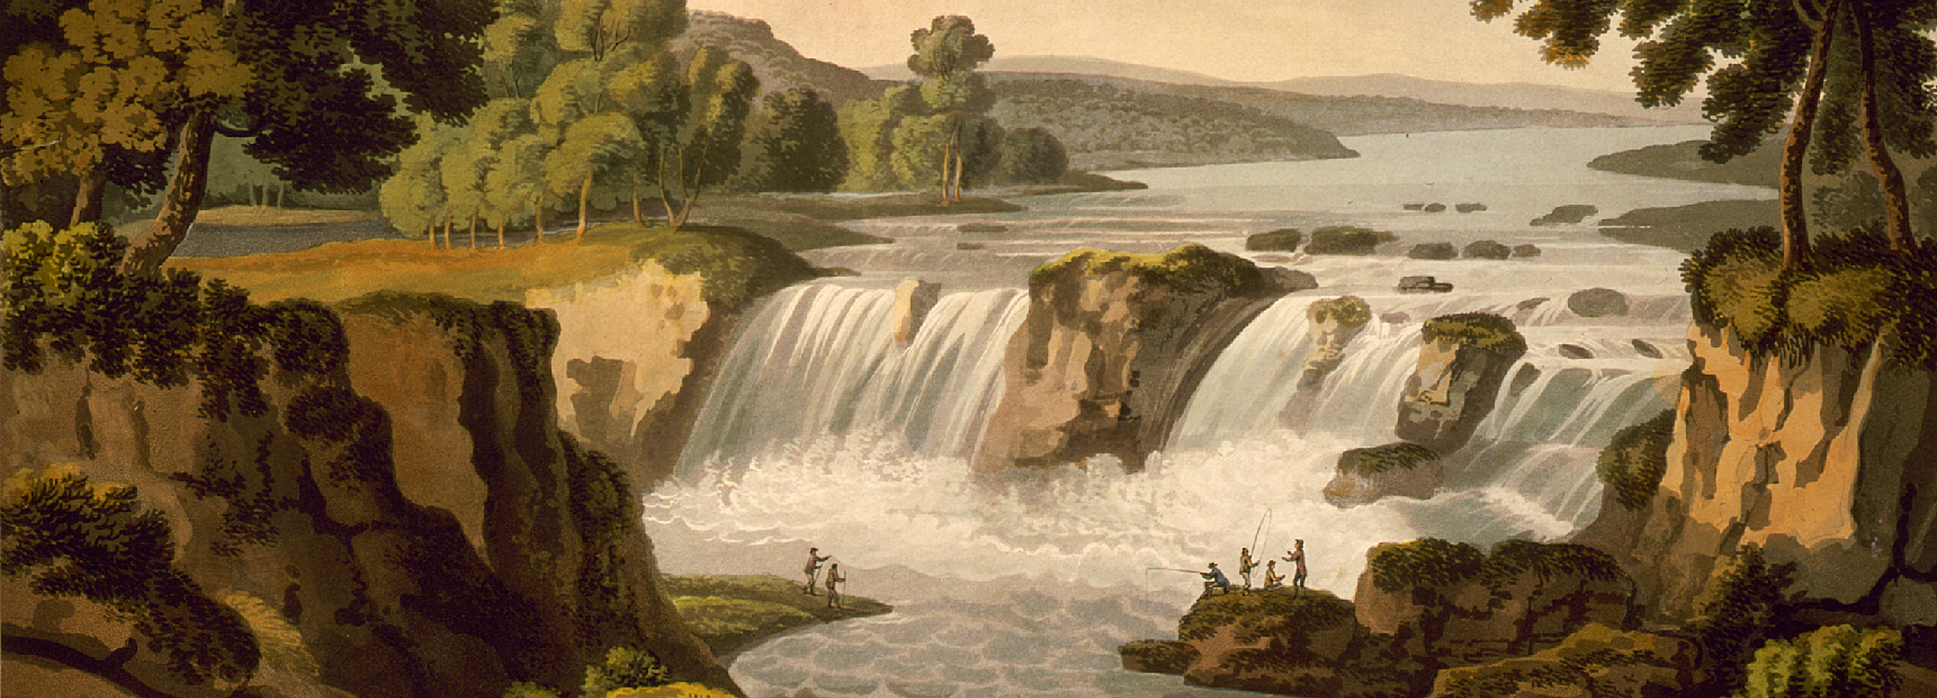
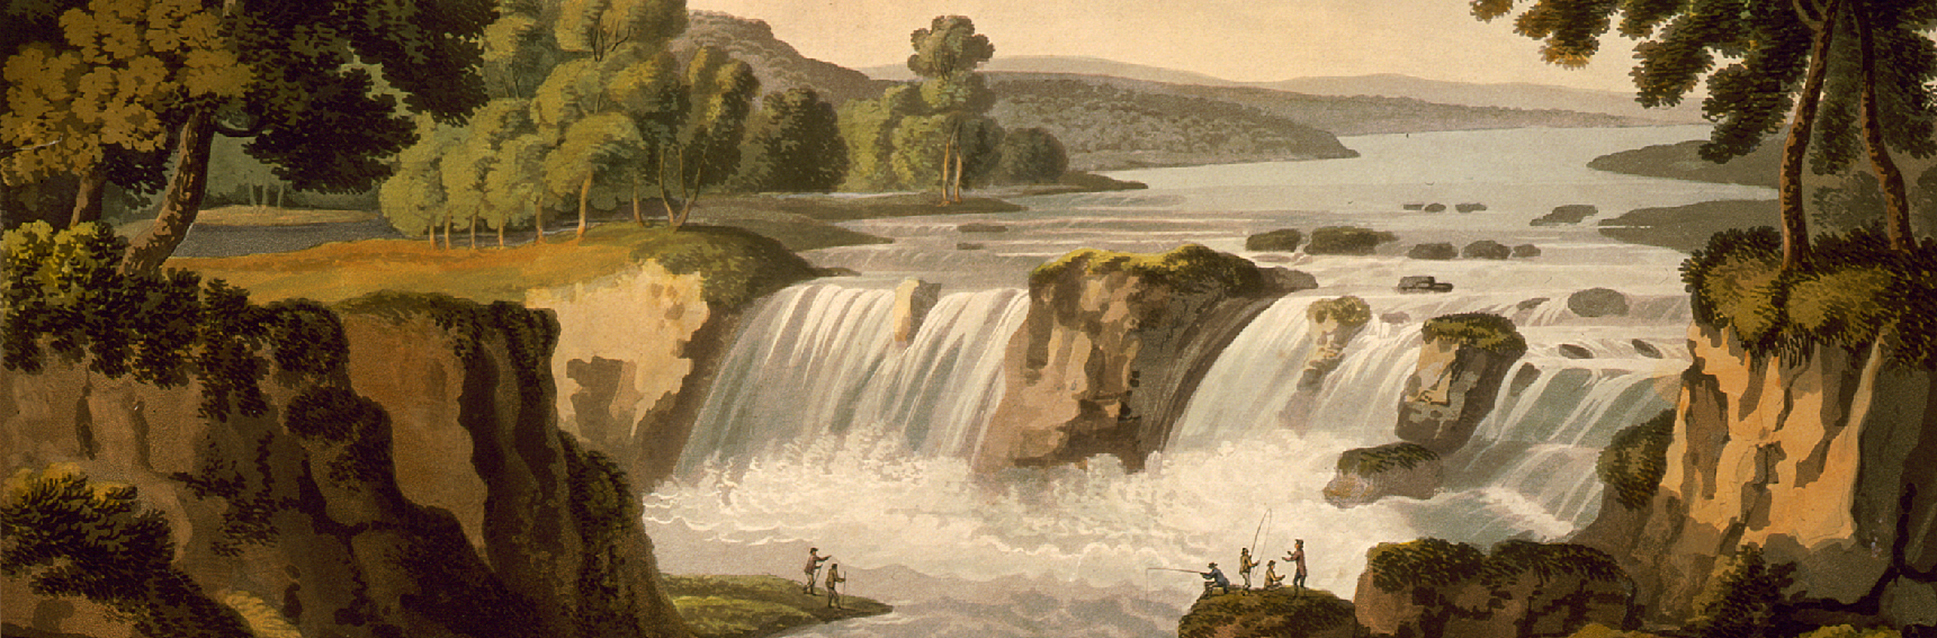
Adjusted graphic proportions on page

diff --git a/style.css b/style.css
@@ -15,7 +15,7 @@ a:hover {
 /* SET UP PAGE GRID */
 #gridParent {
   display: grid;
-   grid-template-rows: auto 1em auto 1em auto;
+   grid-template-rows: auto .5em auto 1em auto;
 }
 
 header{
@@ -45,7 +45,7 @@ header {
   align-items: center;
 }
 #hero h1{
-  font-size: 3em;
+  font-size: 3.5em;
   font-family: "Merriweather", serif;
   font-weight: 100;
   color: #C88239;
@@ -57,7 +57,7 @@ header {
   font-family: "Special Elite", serif;
 }
 #logo img{
-  height: 9em;
+  height: 8em;
   transform: rotate(-14deg);
 }
 /* ====== SPLASH PAGE ====== */
@@ -70,7 +70,6 @@ header {
 }
 #potomac {
 width: 100vw;
-  height: 20em;
 }
 
 nav{
@@ -80,7 +79,7 @@ nav{
   width: 65vw;
   padding-top: 2em;
   margin: 0 auto;
-  font-size: 1.5em;
+  font-size: 1.75em;
 }
 
 #bestBox {
@@ -89,18 +88,19 @@ nav{
   display: flex;
   flex-direction: column;
 }
+
 #best {
  font-family: 'Merriweather';
   text-align: center;
   margin-top: 2em;
   font-size: 1.5em;
   color: #5F572F;
-
 }
 
 #bold {
+  font-family: 'Merriweather';
   font-style: italic;
-  font-size: 1em;
+  font-size: 1.25em;
   text-align: right;
   margin-top: 1em;
   color: #5F572F;

diff --git a/index.html b/index.html
@@ -33,7 +33,7 @@
     <!-- +++ SPLASH +++  -->
   <div id="splash">
 
-    <img id="potomac" src="assets/potomac222.jpg" />
+    <img id="potomac" src="assets/potomacFinal.jpg" />
      <div id="bestBox">
        <p id="best">"Bill Heavey is one of the best magazine writers in America."</p>
        <p id="bold"> - The Wall Street Journal</p>
